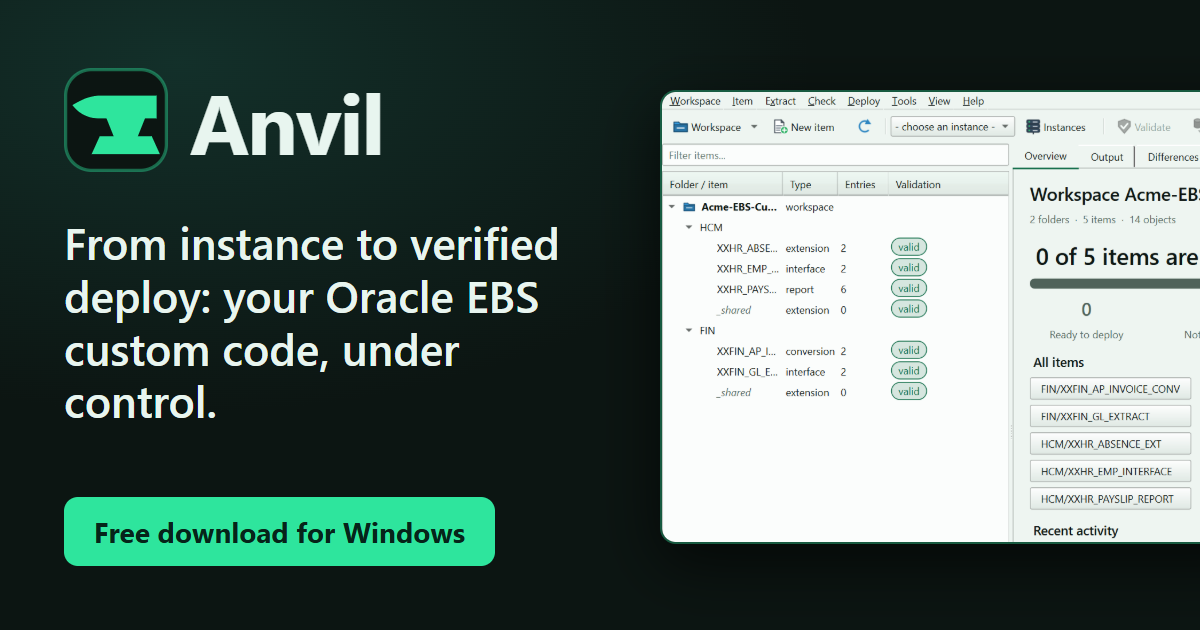
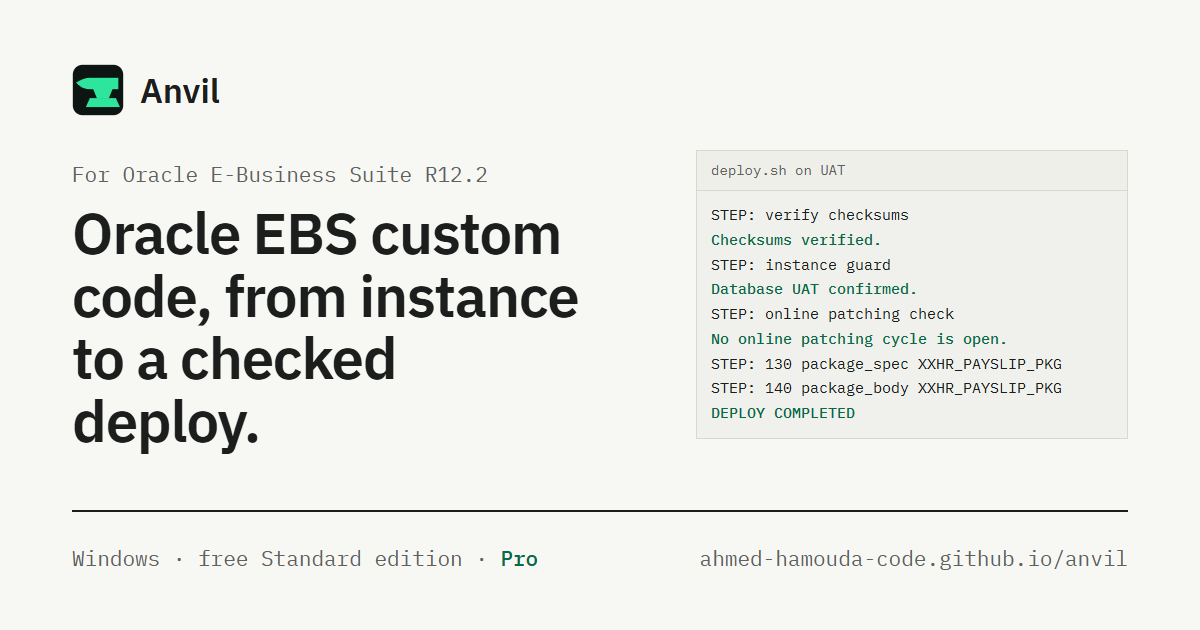
Link preview in the new style
og-card.png redone to match the page (paper, IBM Plex, a real deploy
script excerpt); the image's alt text follows.

diff --git a/index.html b/index.html
@@ -17,12 +17,12 @@
 <meta property="og:image" content="https://ahmed-hamouda-code.github.io/anvil/assets/og-card.png">
 <meta property="og:image:width" content="1200">
 <meta property="og:image:height" content="630">
-<meta property="og:image:alt" content="Anvil logo and the Anvil window showing a workspace of items ready for checking">
+<meta property="og:image:alt" content="Anvil: Oracle EBS custom code, from instance to a checked deploy, beside the lines a generated deploy script prints on UAT">
 <meta name="twitter:card" content="summary_large_image">
 <meta name="twitter:title" content="Anvil — Oracle EBS custom code, under control">
 <meta name="twitter:description" content="From instance to verified deploy. A Windows program for Oracle E-Business Suite R12.2 custom code. Free Standard edition.">
 <meta name="twitter:image" content="https://ahmed-hamouda-code.github.io/anvil/assets/og-card.png">
-<meta name="twitter:image:alt" content="Anvil logo and the Anvil window showing a workspace of items ready for checking">
+<meta name="twitter:image:alt" content="Anvil: Oracle EBS custom code, from instance to a checked deploy, beside the lines a generated deploy script prints on UAT">
 
 <link rel="preconnect" href="https://fonts.googleapis.com">
 <link rel="preconnect" href="https://fonts.gstatic.com" crossorigin>
